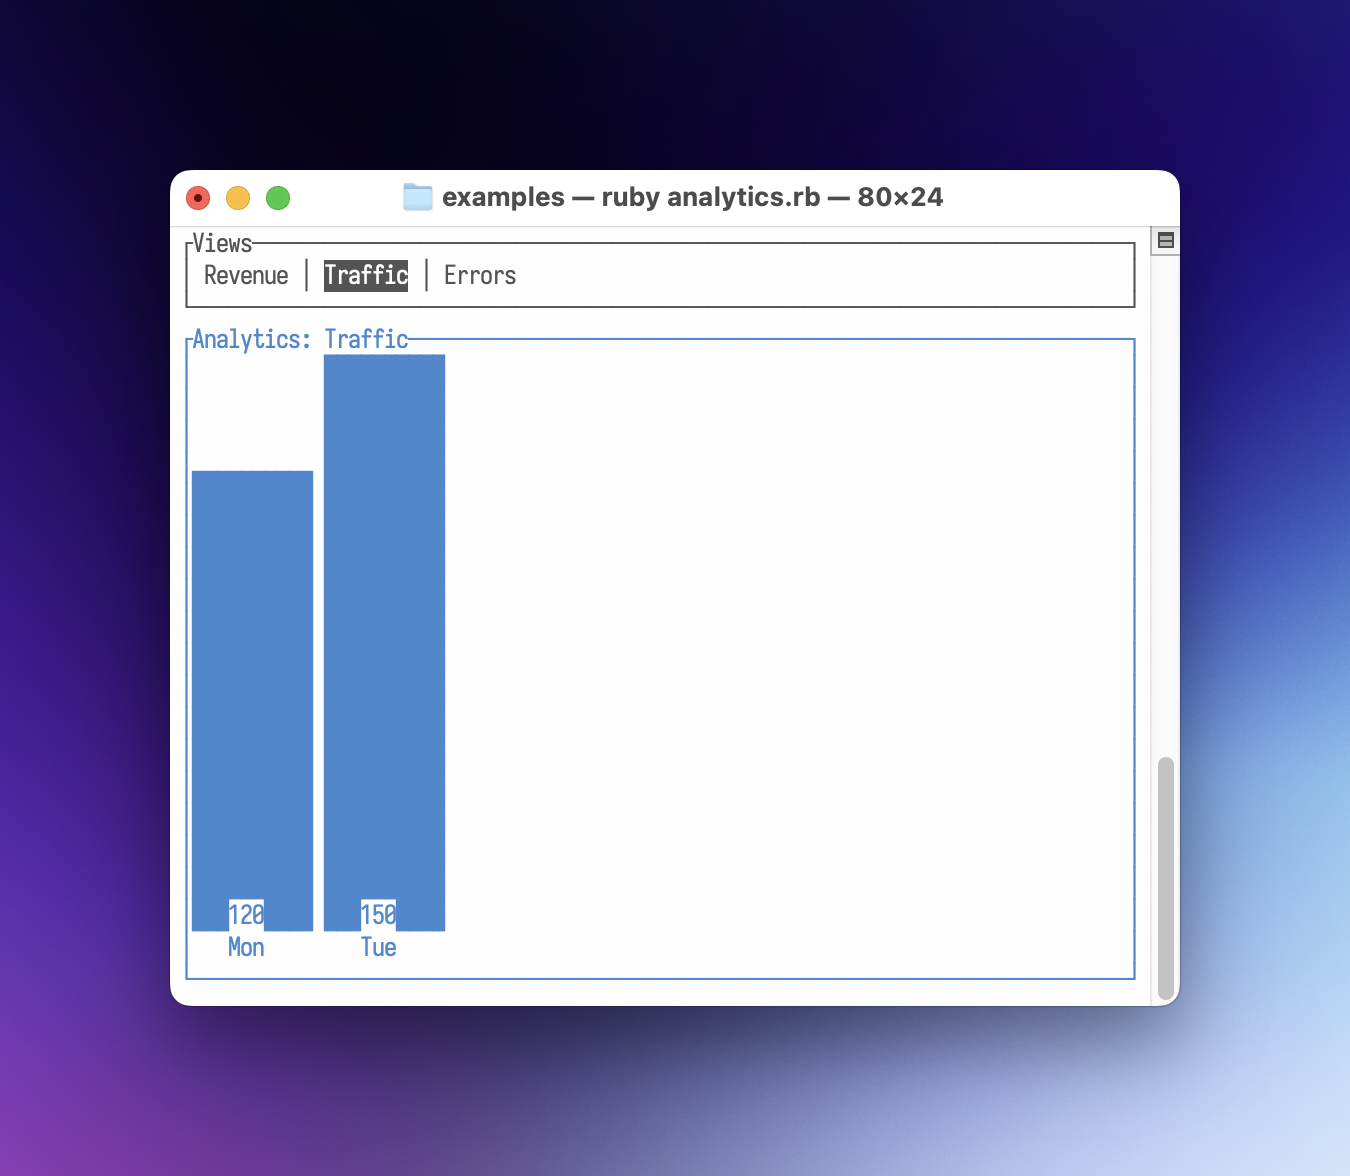
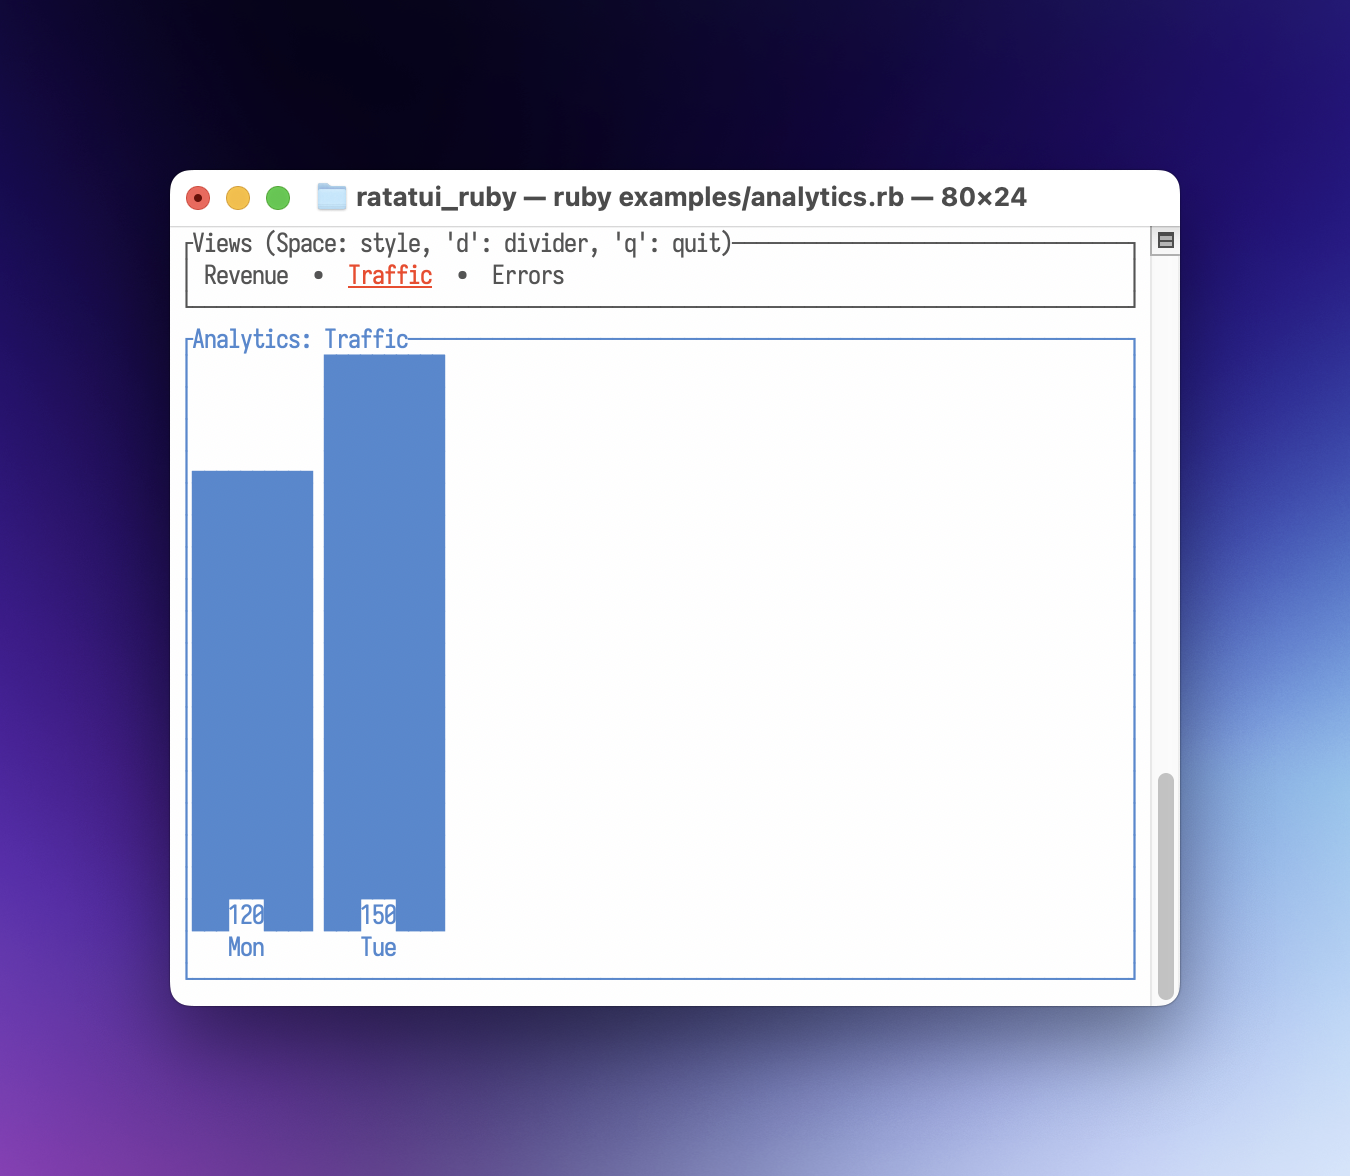
feat(tabs): add highlight_style and divider support
Implements `highlight_style` for styling the selected tab and `divider` for customizing the separator between tabs.
Updates the analytics example to be interactive, demonstrating these new features.

Generated with [Antigravity](https://antigravity.google)

Changed region(s): [[0.1867, 0.1531, 0.7778, 0.2755], [0.84, 0.6429, 0.8711, 0.6735]]

diff --git a/ext/ratatui_ruby/src/widgets/tabs.rs b/ext/ratatui_ruby/src/widgets/tabs.rs
@@ -10,6 +10,8 @@ pub fn render(frame: &mut Frame, area: Rect, node: Value) -> Result<(), Error> {
     let titles_val: Value = node.funcall("titles", ())?;
     let selected_index: usize = node.funcall("selected_index", ())?;
     let block_val: Value = node.funcall("block", ())?;
+    let divider_val: Value = node.funcall("divider", ())?;
+    let highlight_style_val: Value = node.funcall("highlight_style", ())?;
 
     let titles_array = magnus::RArray::from_value(titles_val)
         .ok_or_else(|| Error::new(ruby.exception_type_error(), "expected array for titles"))?;
@@ -21,6 +23,16 @@ pub fn render(frame: &mut Frame, area: Rect, node: Value) -> Result<(), Error> {
     }
 
     let mut tabs = Tabs::new(titles).select(selected_index);
+
+    if !divider_val.is_nil() {
+        let divider: String = divider_val.funcall("to_s", ())?;
+        tabs = tabs.divider(divider);
+    }
+
+    if !highlight_style_val.is_nil() {
+        let style = crate::style::parse_style(highlight_style_val)?;
+        tabs = tabs.highlight_style(style);
+    }
 
     if !block_val.is_nil() {
         tabs = tabs.block(parse_block(block_val)?);
@@ -34,6 +46,7 @@ pub fn render(frame: &mut Frame, area: Rect, node: Value) -> Result<(), Error> {
 mod tests {
     use super::*;
     use ratatui::buffer::Buffer;
+    use ratatui::style::{Color, Modifier, Style};
     use ratatui::text::Line;
     use ratatui::widgets::{Tabs, Widget};
 
@@ -48,5 +61,25 @@ mod tests {
         assert!(content.contains("Tab1"));
         assert!(content.contains("Tab2"));
         assert!(content.contains('|'));
+    }
+
+    #[test]
+    fn test_tabs_highlight_style() {
+        let titles = vec![Line::from("Tab1"), Line::from("Tab2")];
+        let highlight_style = Style::default().fg(Color::Red).add_modifier(Modifier::BOLD);
+        let tabs = Tabs::new(titles)
+            .select(0)
+            .highlight_style(highlight_style);
+        
+        let mut buf = Buffer::empty(Rect::new(0, 0, 15, 1));
+        tabs.render(Rect::new(0, 0, 15, 1), &mut buf);
+
+        // Check the first cell of the first tab (which is selected)
+        // " Tab1 "
+        // Index 1 should be 'T' with Red+Bold
+        let cell = &buf.content()[1];
+        assert_eq!(cell.symbol(), "T");
+        assert_eq!(cell.fg, Color::Red);
+        assert!(cell.modifier.contains(Modifier::BOLD));
     }
 }

diff --git a/examples/analytics.rb b/examples/analytics.rb
@@ -13,6 +13,15 @@ class AnalyticsApp
   def initialize
     @selected_tab = 0
     @tabs = ["Revenue", "Traffic", "Errors"]
+    @style_index = 0
+    @styles = [
+      RatatuiRuby::Style.new(fg: :yellow, modifiers: [:bold]),
+      RatatuiRuby::Style.new(fg: :blue, bg: :white, modifiers: [:italic]),
+      RatatuiRuby::Style.new(fg: :red, modifiers: [:underlined]),
+      RatatuiRuby::Style.new(modifiers: [:reversed])
+    ]
+    @divider_index = 0
+    @dividers = [" | ", " • ", " > ", " / "]
   end
 
   def run
@@ -39,10 +48,10 @@ class AnalyticsApp
              { "DB" => 5, "UI" => 2 }
     end
 
-    style = case @selected_tab
-            when 0 then RatatuiRuby::Style.new(fg: "green")
-            when 1 then RatatuiRuby::Style.new(fg: "blue")
-            when 2 then RatatuiRuby::Style.new(fg: "red")
+    bar_style = case @selected_tab
+                when 0 then RatatuiRuby::Style.new(fg: "green")
+                when 1 then RatatuiRuby::Style.new(fg: "blue")
+                when 2 then RatatuiRuby::Style.new(fg: "red")
     end
 
     # Build the UI
@@ -56,12 +65,17 @@ class AnalyticsApp
         RatatuiRuby::Tabs.new(
           titles: @tabs,
           selected_index: @selected_tab,
-          block: RatatuiRuby::Block.new(title: "Views", borders: [:all])
+          block: RatatuiRuby::Block.new(
+            title: "Views (Space: style, 'd': divider, 'q': quit)",
+            borders: [:all]
+          ),
+          divider: @dividers[@divider_index],
+          highlight_style: @styles[@style_index]
         ),
         RatatuiRuby::BarChart.new(
           data:,
           bar_width: 10,
-          style:,
+          style: bar_style,
           block: RatatuiRuby::Block.new(title: "Analytics: #{@tabs[@selected_tab]}", borders: [:all])
         ),
       ]
@@ -80,6 +94,10 @@ class AnalyticsApp
         @selected_tab = (@selected_tab + 1) % @tabs.size
       when "left"
         @selected_tab = (@selected_tab - 1) % @tabs.size
+      when " "
+        @style_index = (@style_index + 1) % @styles.size
+      when "d"
+        @divider_index = (@divider_index + 1) % @dividers.size
       end
     end
   end

diff --git a/test/ratatui_ruby/test_analytics.rb b/test/ratatui_ruby/test_analytics.rb
@@ -1,0 +1,74 @@
+# frozen_string_literal: true
+
+# SPDX-FileCopyrightText: 2025 Kerrick Long <me@kerricklong.com>
+# SPDX-License-Identifier: AGPL-3.0-or-later
+
+require "test_helper"
+require_relative "../../examples/analytics"
+
+class TestAnalyticsApp < Minitest::Test
+  include RatatuiRuby::TestHelper
+
+  def setup
+    @app = AnalyticsApp.new
+  end
+
+  def test_initial_render
+    # Initial state: Divider " | ", Style Yellow/Bold
+    with_test_terminal(60, 10) do
+      @app.render
+      content = buffer_content
+      
+      # Check title instructions
+      assert_includes content[0], "Views (Space: style, 'd': divider, 'q': quit)"
+      
+      # Check divider " | "
+      tabs_line = content[1]
+      assert_includes tabs_line, "|"
+    end
+  end
+
+  def test_switch_divider
+    with_test_terminal(60, 10) do
+      # Initial render to ensure state
+      @app.render
+      content = buffer_content
+      assert_includes content[1], "|"
+
+      # Press 'd': " • "
+      inject_event("key", { code: "d" })
+      @app.handle_input
+      @app.render
+      
+      content = buffer_content
+      tabs_line = content[1]
+      assert_includes tabs_line, "•"
+      refute_includes tabs_line, "|"
+
+      # Press 'd' again: " > "
+      inject_event("key", { code: "d" })
+      @app.handle_input
+      @app.render
+      
+      content = buffer_content
+      tabs_line = content[1]
+      assert_includes tabs_line, ">"
+    end
+  end
+
+  def test_switch_style
+    with_test_terminal(60, 10) do
+      # Press 'Space' to toggle style
+      inject_event("key", { code: " " })
+      @app.handle_input
+      @app.render
+      
+      # Just asserting it rendered effectively
+      content = buffer_content
+      assert_includes content[0], "Views"
+      
+      # We could verify inspected state if we really wanted to, 
+      # but ensuring no crash and successful render is a good baseline for this example test.
+    end
+  end
+end

diff --git a/lib/ratatui_ruby/schema/tabs.rb b/lib/ratatui_ruby/schema/tabs.rb
@@ -8,14 +8,17 @@ module RatatuiRuby
   #
   # [titles] Array of strings or lines to display as tab titles.
   # [selected_index] The index of the currently selected tab.
-  # [block] Optional block widget to wrap the tabs.
-  class Tabs < Data.define(:titles, :selected_index, :block)
+  # [divider] String to use as a separator between tabs.
+  # [highlight_style] Style to apply to the selected tab title.
+  class Tabs < Data.define(:titles, :selected_index, :block, :divider, :highlight_style)
     # Creates a new Tabs widget.
     #
     # [titles] Array of strings or lines to display as tab titles.
     # [selected_index] The index of the currently selected tab.
     # [block] Optional block widget to wrap the tabs.
-    def initialize(titles: [], selected_index: 0, block: nil)
+    # [divider] String to use as a separator between tabs.
+    # [highlight_style] Style to apply to the selected tab title.
+    def initialize(titles: [], selected_index: 0, block: nil, divider: nil, highlight_style: nil)
       super
     end
   end

diff --git a/test/ratatui_ruby/test_tabs_render.rb b/test/ratatui_ruby/test_tabs_render.rb
@@ -1,0 +1,36 @@
+# frozen_string_literal: true
+
+# SPDX-FileCopyrightText: 2025 Kerrick Long <me@kerricklong.com>
+# SPDX-License-Identifier: AGPL-3.0-or-later
+
+require "test_helper"
+
+module RatatuiRuby
+  class TestTabsRender < Minitest::Test
+    include TestHelper
+
+    def test_render_tabs_with_divider_and_highlight
+      tabs = Tabs.new(
+        titles: ["Tab1", "Tab2"],
+        selected_index: 0,
+        divider: "|",
+        highlight_style: Style.new(fg: :red, modifiers: [:bold])
+      )
+
+      # Render to a buffer of width 50
+      with_test_terminal(50, 3) do
+        RatatuiRuby.draw(tabs)
+
+        # Verify content
+        content = buffer_content
+        line = content[0]
+        
+        # Check that the divider is present
+        assert_includes line, "|"
+        # Check that titles are present
+        assert_includes line, "Tab1"
+        assert_includes line, "Tab2"
+      end
+    end
+  end
+end

diff --git a/CHANGELOG.md b/CHANGELOG.md
@@ -48,6 +48,7 @@ This project adheres to [Semantic Versioning](https://semver.org/spec/v2.0.0.htm
 - **Clear Widget**: Added the `Clear` widget, which resets the terminal buffer in the area it is rendered. This is essential for creating opaque popups and modals that prevent background styles from "bleeding" through transparent widgets.
 - **Interactive Table Selection**: The `Table` widget now supports row selection with `selected_row`, `highlight_style`, and `highlight_symbol` parameters. This enables building interactive data grids and file explorers where users can navigate through rows using keyboard input.
 - **Scrollable Paragraphs**: The `Paragraph` widget now supports a `scroll` parameter that accepts a `(y, x)` array to scroll content vertically and horizontally. This enables viewing long text content that exceeds the visible area, such as logs or documents. The parameter order matches ratatui's convention.
+- **Enhanced Tabs Customization**: The `Tabs` widget now supports `highlight_style` for the selected tab and a customizable `divider` string (defaulting to the standard pipe `|`). This allows for richer visual feedback in tabbed interfaces.
 
 ### Changed
 

diff --git a/doc/quickstart.md b/doc/quickstart.md
@@ -121,7 +121,7 @@ For a deeper dive into the available application architectures (Manual vs Manage
 To see more complex layouts and widget usage, check out the `examples/` directory in the repository.
 
 ### [Analytics](https://git.sr.ht/~kerrick/ratatui_ruby/tree/main/item/examples/analytics.rb)
-Demonstrates the use of `Tabs` and `BarChart` widgets with a simple data-switching mechanism.
+Demonstrates the use of `Tabs` and `BarChart` widgets with a simple data-switching mechanism. Features custom highlight styles and dividers for the tabs.
 
 ![Analytics Screenshot](./images/examples-analytics.rb.png)
 

diff --git a/doc/contributors/gap_analysis_0.30.md b/doc/contributors/gap_analysis_0.30.md
@@ -99,8 +99,8 @@ Note: Table widths only support `:length`, `:percentage`, `:min` in Rust rendere
 | `select()` | `selected_index:` | ✅ |
 | `block()` | `block:` | ✅ |
 | `style()` | — | ❌ **MISSING** |
-| `highlight_style()` | — | ❌ **MISSING** |
-| `divider()` | — | ❌ **MISSING** |
+| `highlight_style()` | `highlight_style:` | ✅ |
+| `divider()` | `divider:` | ✅ |
 | `padding()` / `padding_left()` / `padding_right()` | — | ❌ **MISSING** |
 
 ---
